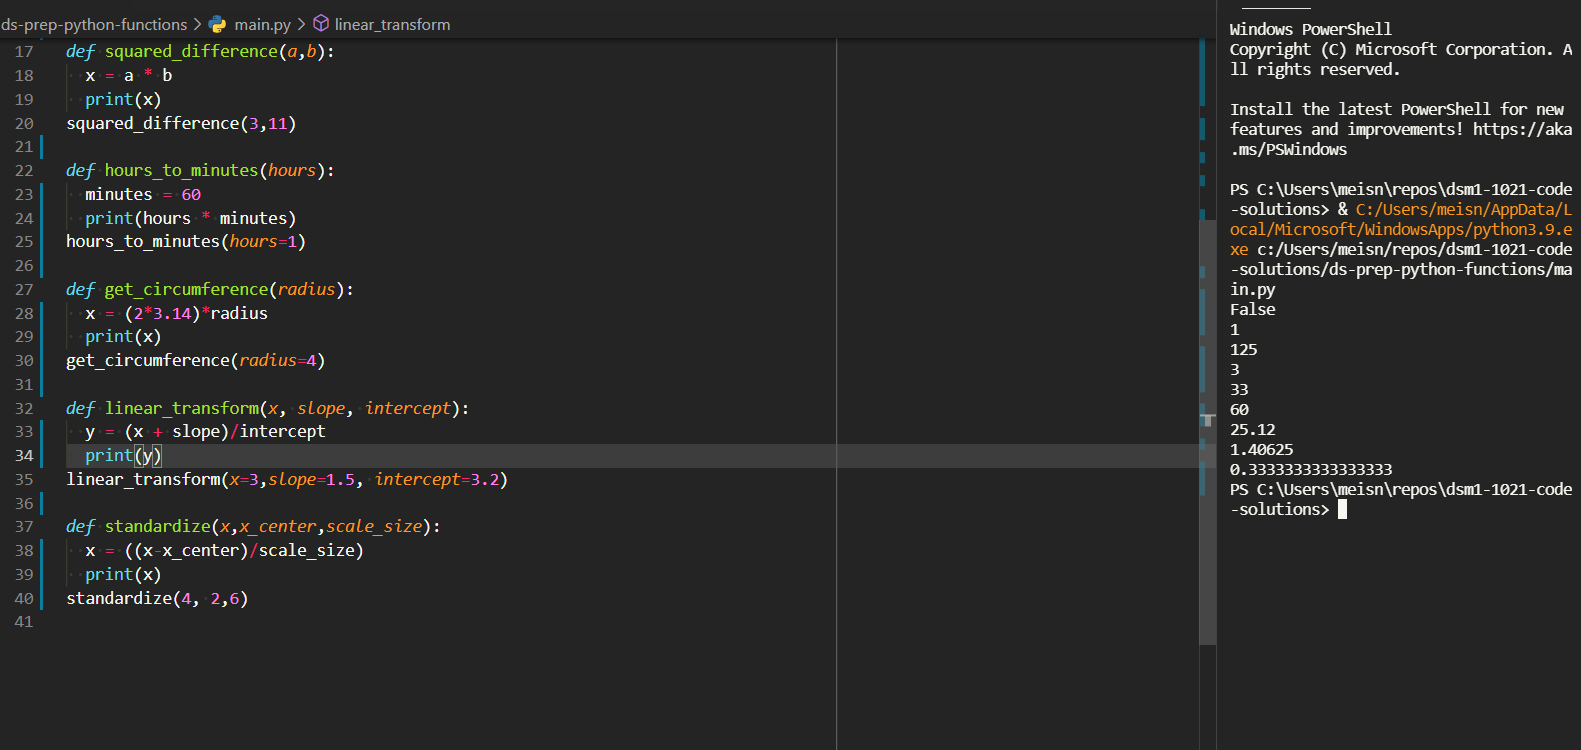
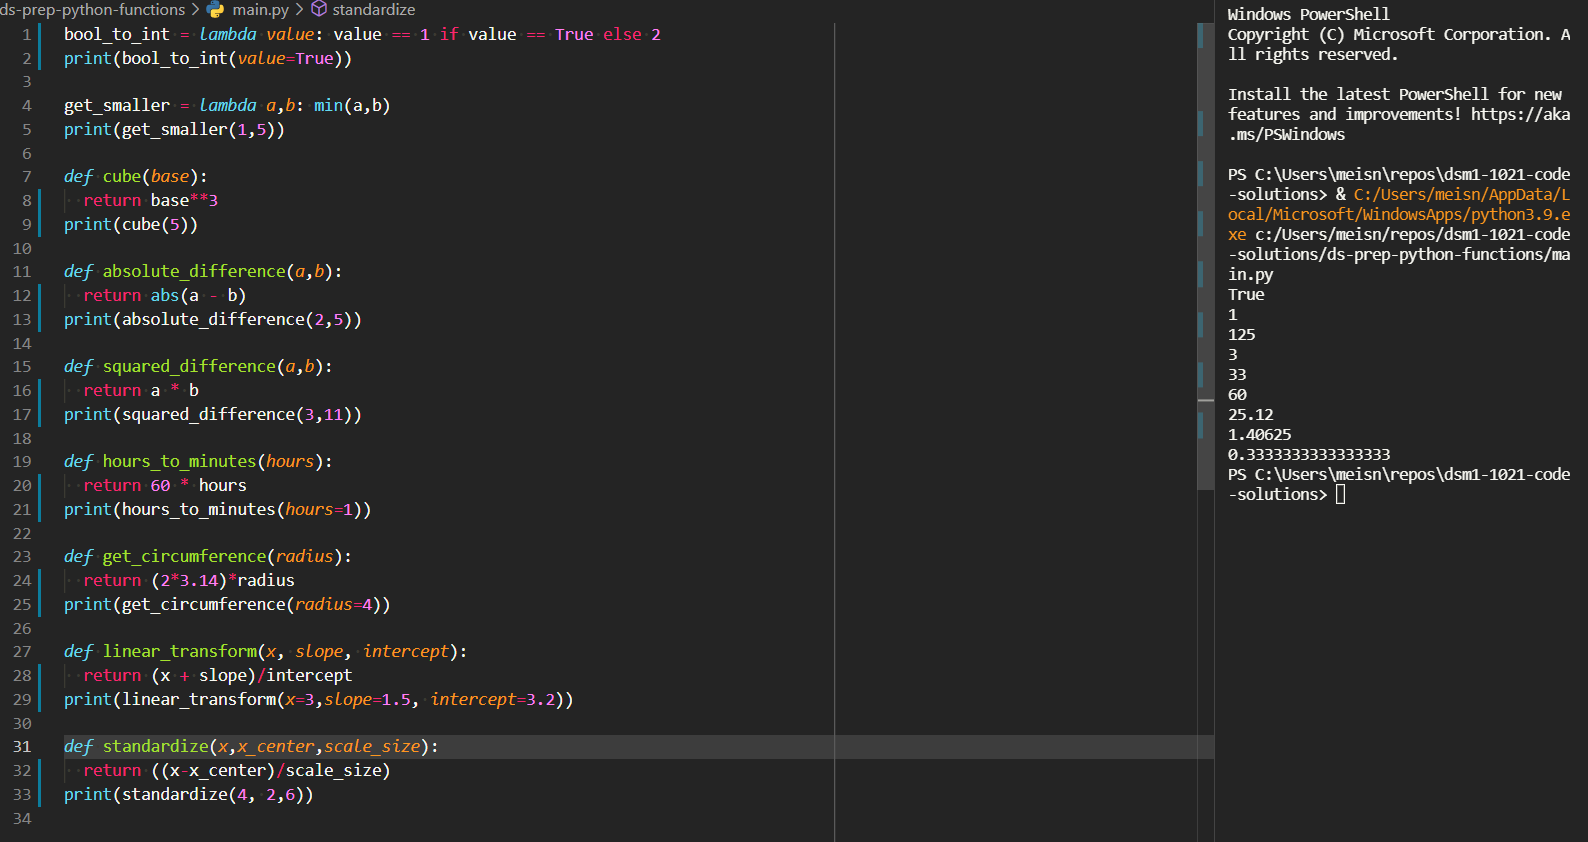
New completed ds-prep-python-functions.

Changed region(s): [[0.0, 0.0, 1.0, 0.9813]]

diff --git a/ds-prep-python-functions/main.py b/ds-prep-python-functions/main.py
@@ -1,40 +1,33 @@
-bool_to_int = lambda value: value == False if value < 2 else True
-print(bool_to_int(value=1))
+bool_to_int = lambda value: value == 1 if value == True else 2
+print(bool_to_int(value=True))
 
 get_smaller = lambda a,b: min(a,b)
 print(get_smaller(1,5))
 
 def cube(base):
-  x =  base**3
-  print(x)
-cube(5)
+  return base**3
+print(cube(5))
 
 def absolute_difference(a,b):
-  x = abs(a - b)
-  print(x)
-absolute_difference(2,5)
+  return abs(a - b)
+print(absolute_difference(2,5))
 
 def squared_difference(a,b):
-  x = a * b
-  print(x)
-squared_difference(3,11)
+  return a * b
+print(squared_difference(3,11))
 
 def hours_to_minutes(hours):
-  minutes = 60
-  print(hours * minutes)
-hours_to_minutes(hours=1)
+  return 60 * hours
+print(hours_to_minutes(hours=1))
 
 def get_circumference(radius):
-  x = (2*3.14)*radius
-  print(x)
-get_circumference(radius=4)
+  return (2*3.14)*radius
+print(get_circumference(radius=4))
 
 def linear_transform(x, slope, intercept):
-  y = (x + slope)/intercept
-  print(y)
-linear_transform(x=3,slope=1.5, intercept=3.2)
+  return (x + slope)/intercept
+print(linear_transform(x=3,slope=1.5, intercept=3.2))
 
 def standardize(x,x_center,scale_size):
-  x = ((x-x_center)/scale_size)
-  print(x)
-standardize(4, 2,6)
+  return ((x-x_center)/scale_size)
+print(standardize(4, 2,6))
